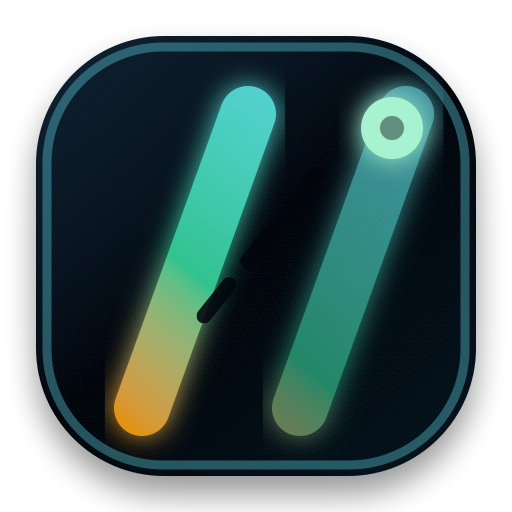
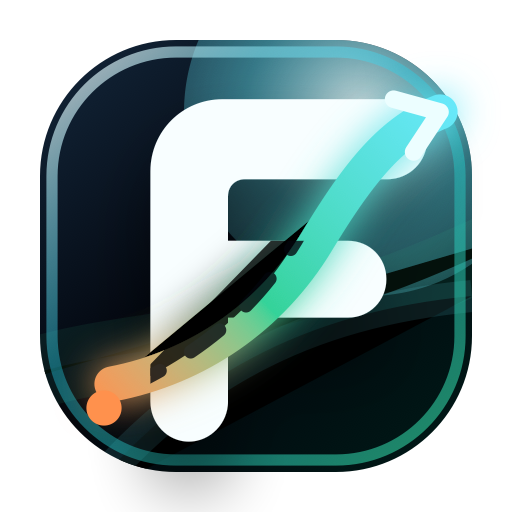
Polish Freeway branding assets

diff --git a/src/components/brand/FreewayLogo.jsx b/src/components/brand/FreewayLogo.jsx
@@ -2,76 +2,113 @@ import React, { useId } from 'react';
 
 export default function FreewayLogo({ className = '', iconClassName = '', showWordmark = false }) {
   const id = useId().replace(/:/g, '');
-  const bgId = `freeway-logo-bg-${id}`;
-  const laneId = `freeway-logo-lane-${id}`;
+  const surfaceId = `freeway-logo-surface-${id}`;
+  const rimId = `freeway-logo-rim-${id}`;
+  const routeId = `freeway-logo-route-${id}`;
+  const sparkId = `freeway-logo-spark-${id}`;
+  const depthId = `freeway-logo-depth-${id}`;
+  const glowId = `freeway-logo-glow-${id}`;
+  const clipId = `freeway-logo-clip-${id}`;
+  const roadMaskId = `freeway-logo-road-mask-${id}`;
 
   return (
     <span className={`inline-flex items-center gap-3 ${className}`}>
       <svg
         viewBox="0 0 64 64"
         aria-hidden="true"
-        className={`h-10 w-10 shrink-0 drop-shadow-[0_0_18px_rgba(45,212,191,0.42)] ${iconClassName}`}
+        className={`h-10 w-10 shrink-0 drop-shadow-[0_0_20px_rgba(34,211,238,0.35)] ${iconClassName}`}
       >
         <defs>
-          <linearGradient id={bgId} x1="9" y1="5" x2="55" y2="60" gradientUnits="userSpaceOnUse">
-            <stop offset="0" stopColor="#0f2130" />
+          <linearGradient id={surfaceId} x1="8" y1="4" x2="58" y2="61" gradientUnits="userSpaceOnUse">
+            <stop offset="0" stopColor="#13263a" />
             <stop offset="0.48" stopColor="#02050c" />
-            <stop offset="1" stopColor="#04141d" />
+            <stop offset="1" stopColor="#001b18" />
           </linearGradient>
-          <linearGradient id={laneId} x1="16" y1="52" x2="50" y2="10" gradientUnits="userSpaceOnUse">
-            <stop offset="0" stopColor="#f59e0b" />
-            <stop offset="0.34" stopColor="#34d399" />
+          <linearGradient id={rimId} x1="10" y1="6" x2="55" y2="58" gradientUnits="userSpaceOnUse">
+            <stop offset="0" stopColor="#f8fafc" stopOpacity="0.7" />
+            <stop offset="0.42" stopColor="#22d3ee" stopOpacity="0.38" />
+            <stop offset="1" stopColor="#34d399" stopOpacity="0.62" />
+          </linearGradient>
+          <linearGradient id={routeId} x1="12" y1="51" x2="54" y2="11" gradientUnits="userSpaceOnUse">
+            <stop offset="0" stopColor="#ff914d" />
+            <stop offset="0.42" stopColor="#34d399" />
             <stop offset="1" stopColor="#67e8f9" />
           </linearGradient>
+          <radialGradient
+            id={sparkId}
+            cx="0"
+            cy="0"
+            r="1"
+            gradientTransform="matrix(23 -26 26 23 45 14)"
+            gradientUnits="userSpaceOnUse"
+          >
+            <stop stopColor="#ecfeff" />
+            <stop offset="0.42" stopColor="#67e8f9" stopOpacity="0.55" />
+            <stop offset="1" stopColor="#67e8f9" stopOpacity="0" />
+          </radialGradient>
+          <filter id={depthId} x="-30%" y="-30%" width="160%" height="160%">
+            <feDropShadow dx="0" dy="6" stdDeviation="5" floodColor="#000000" floodOpacity="0.45" />
+          </filter>
+          <filter id={glowId} x="-45%" y="-45%" width="190%" height="190%">
+            <feGaussianBlur stdDeviation="2.4" result="blur" />
+            <feMerge>
+              <feMergeNode in="blur" />
+              <feMergeNode in="SourceGraphic" />
+            </feMerge>
+          </filter>
+          <clipPath id={clipId}>
+            <rect x="5" y="5" width="54" height="54" rx="17" />
+          </clipPath>
+          <mask id={roadMaskId}>
+            <rect width="64" height="64" fill="black" />
+            <path
+              d="M18.8 50.2V21.4c0-5 4-9 9-9h20.6c2.8 0 5 2.2 5 5s-2.2 5-5 5H30.6c-1.2 0-2.1 0.9-2.1 2.1v5.6h15c2.7 0 4.8 2.1 4.8 4.8s-2.1 4.8-4.8 4.8h-15v10.5c0 2.7-2.2 5-4.9 5s-4.8-2.3-4.8-5Z"
+              fill="white"
+            />
+          </mask>
         </defs>
-        <rect x="5" y="5" width="54" height="54" rx="17" fill={`url(#${bgId})`} />
-        <rect x="6.5" y="6.5" width="51" height="51" rx="15.5" fill="none" stroke="#67e8f9" strokeOpacity="0.32" />
+        <rect x="5" y="5" width="54" height="54" rx="17" fill={`url(#${surfaceId})`} />
+        <g clipPath={`url(#${clipId})`}>
+          <circle cx="46" cy="14" r="23" fill={`url(#${sparkId})`} opacity="0.85" />
+          <path d="M-2 49C16 41 30 47 66 29" stroke="#34d399" strokeWidth="9" strokeOpacity="0.08" />
+          <path d="M10 63C23 47 38 39 59 37" stroke="#67e8f9" strokeWidth="4" strokeOpacity="0.12" />
+        </g>
+        <rect x="6.5" y="6.5" width="51" height="51" rx="15.5" fill="none" stroke={`url(#${rimId})`} strokeWidth="1.4" />
         <path
-          d="M18 50L31 15"
-          stroke={`url(#${laneId})`}
-          strokeWidth="7"
-          strokeLinecap="round"
+          d="M18.8 50.2V21.4c0-5 4-9 9-9h20.6c2.8 0 5 2.2 5 5s-2.2 5-5 5H30.6c-1.2 0-2.1 0.9-2.1 2.1v5.6h15c2.7 0 4.8 2.1 4.8 4.8s-2.1 4.8-4.8 4.8h-15v10.5c0 2.7-2.2 5-4.9 5s-4.8-2.3-4.8-5Z"
+          fill="#f8feff"
+          filter={`url(#${depthId})`}
         />
         <path
-          d="M35 50L48 15"
-          stroke={`url(#${laneId})`}
-          strokeWidth="7"
+          d="M14 48C24.5 46 33.8 39.8 39.6 30.2C44.9 21.4 49 16.4 55 14"
+          stroke={`url(#${routeId})`}
+          strokeWidth="4.4"
           strokeLinecap="round"
-          opacity="0.72"
+          filter={`url(#${glowId})`}
         />
         <path
-          d="M25 39L41 20"
+          d="M16 48.4C27.4 43 35.2 35.6 40.4 23.4"
           stroke="#02050c"
-          strokeWidth="2.4"
+          strokeWidth="1.7"
           strokeLinecap="round"
-          strokeDasharray="6 5"
-          opacity="0.9"
+          strokeDasharray="4.5 4.5"
+          opacity="0.78"
+          mask={`url(#${roadMaskId})`}
         />
         <path
-          d="M19 24H43"
-          stroke="#f8fafc"
-          strokeWidth="6.5"
+          d="M49.2 12.4L55 14L51.7 19"
+          fill="none"
+          stroke="#ecfeff"
+          strokeWidth="2.2"
           strokeLinecap="round"
           strokeLinejoin="round"
         />
-        <path
-          d="M18 24V45"
-          stroke="#f8fafc"
-          strokeWidth="6.5"
-          strokeLinecap="round"
-        />
-        <path
-          d="M20 34H36"
-          stroke="#f8fafc"
-          strokeWidth="5.5"
-          strokeLinecap="round"
-        />
-        <circle cx="48" cy="16" r="4" fill="#a7f3d0" />
+        <circle cx="13" cy="51" r="2.2" fill="#ff914d" />
       </svg>
       {showWordmark && (
         <span className="flex flex-col leading-none">
-          <span className="font-grotesk text-sm font-black tracking-[0.16em] text-white">FREEWAY</span>
-          <span className="mt-1 font-mono text-[9px] uppercase tracking-[0.32em] text-primary/70">Life</span>
+          <span className="font-grotesk text-sm font-black tracking-[0.12em] text-white">FREEWAY</span>
+          <span className="mt-1 font-mono text-[9px] uppercase tracking-[0.28em] text-primary/70">Life</span>
         </span>
       )}
     </span>

diff --git a/index.html b/index.html
@@ -39,14 +39,13 @@
         display: grid;
         place-items: center;
         margin: 0 auto 28px;
-        border: 1px solid rgba(103, 232, 249, 0.28);
-        border-radius: 999px;
-        background: rgba(0, 0, 0, 0.24);
-        box-shadow: 0 0 48px rgba(45, 212, 191, 0.28);
-        color: #5eead4;
-        font-size: 26px;
-        font-weight: 900;
-        letter-spacing: 0.04em;
+        filter: drop-shadow(0 0 30px rgba(34, 211, 238, 0.34));
+      }
+
+      .boot-fallback__mark svg {
+        display: block;
+        width: 100%;
+        height: 100%;
       }
 
       .boot-fallback__title {
@@ -82,7 +81,61 @@
     <div id="root">
       <div class="boot-fallback" aria-label="Freeway Life">
         <div>
-          <div class="boot-fallback__mark">FWL</div>
+          <div class="boot-fallback__mark" aria-hidden="true">
+            <svg viewBox="0 0 64 64" role="img">
+              <defs>
+                <linearGradient id="boot-surface" x1="8" y1="4" x2="58" y2="61" gradientUnits="userSpaceOnUse">
+                  <stop offset="0" stop-color="#13263a" />
+                  <stop offset="0.48" stop-color="#02050c" />
+                  <stop offset="1" stop-color="#001b18" />
+                </linearGradient>
+                <linearGradient id="boot-rim" x1="10" y1="6" x2="55" y2="58" gradientUnits="userSpaceOnUse">
+                  <stop offset="0" stop-color="#f8fafc" stop-opacity="0.7" />
+                  <stop offset="0.42" stop-color="#22d3ee" stop-opacity="0.38" />
+                  <stop offset="1" stop-color="#34d399" stop-opacity="0.62" />
+                </linearGradient>
+                <linearGradient id="boot-route" x1="12" y1="51" x2="54" y2="11" gradientUnits="userSpaceOnUse">
+                  <stop offset="0" stop-color="#ff914d" />
+                  <stop offset="0.42" stop-color="#34d399" />
+                  <stop offset="1" stop-color="#67e8f9" />
+                </linearGradient>
+                <radialGradient id="boot-spark" cx="0" cy="0" r="1" gradientTransform="matrix(23 -26 26 23 45 14)" gradientUnits="userSpaceOnUse">
+                  <stop stop-color="#ecfeff" />
+                  <stop offset="0.42" stop-color="#67e8f9" stop-opacity="0.55" />
+                  <stop offset="1" stop-color="#67e8f9" stop-opacity="0" />
+                </radialGradient>
+                <filter id="boot-depth" x="-30%" y="-30%" width="160%" height="160%">
+                  <feDropShadow dx="0" dy="6" stdDeviation="5" flood-color="#000000" flood-opacity="0.45" />
+                </filter>
+                <filter id="boot-glow" x="-45%" y="-45%" width="190%" height="190%">
+                  <feGaussianBlur stdDeviation="2.4" result="blur" />
+                  <feMerge>
+                    <feMergeNode in="blur" />
+                    <feMergeNode in="SourceGraphic" />
+                  </feMerge>
+                </filter>
+                <clipPath id="boot-clip">
+                  <rect x="5" y="5" width="54" height="54" rx="17" />
+                </clipPath>
+                <mask id="boot-road-mask">
+                  <rect width="64" height="64" fill="black" />
+                  <path d="M18.8 50.2V21.4c0-5 4-9 9-9h20.6c2.8 0 5 2.2 5 5s-2.2 5-5 5H30.6c-1.2 0-2.1 0.9-2.1 2.1v5.6h15c2.7 0 4.8 2.1 4.8 4.8s-2.1 4.8-4.8 4.8h-15v10.5c0 2.7-2.2 5-4.9 5s-4.8-2.3-4.8-5Z" fill="white" />
+                </mask>
+              </defs>
+              <rect x="5" y="5" width="54" height="54" rx="17" fill="url(#boot-surface)" />
+              <g clip-path="url(#boot-clip)">
+                <circle cx="46" cy="14" r="23" fill="url(#boot-spark)" opacity="0.85" />
+                <path d="M-2 49C16 41 30 47 66 29" stroke="#34d399" stroke-width="9" stroke-opacity="0.08" />
+                <path d="M10 63C23 47 38 39 59 37" stroke="#67e8f9" stroke-width="4" stroke-opacity="0.12" />
+              </g>
+              <rect x="6.5" y="6.5" width="51" height="51" rx="15.5" fill="none" stroke="url(#boot-rim)" stroke-width="1.4" />
+              <path d="M18.8 50.2V21.4c0-5 4-9 9-9h20.6c2.8 0 5 2.2 5 5s-2.2 5-5 5H30.6c-1.2 0-2.1 0.9-2.1 2.1v5.6h15c2.7 0 4.8 2.1 4.8 4.8s-2.1 4.8-4.8 4.8h-15v10.5c0 2.7-2.2 5-4.9 5s-4.8-2.3-4.8-5Z" fill="#f8feff" filter="url(#boot-depth)" />
+              <path d="M14 48C24.5 46 33.8 39.8 39.6 30.2C44.9 21.4 49 16.4 55 14" stroke="url(#boot-route)" stroke-width="4.4" stroke-linecap="round" filter="url(#boot-glow)" />
+              <path d="M16 48.4C27.4 43 35.2 35.6 40.4 23.4" stroke="#02050c" stroke-width="1.7" stroke-linecap="round" stroke-dasharray="4.5 4.5" opacity="0.78" mask="url(#boot-road-mask)" />
+              <path d="M49.2 12.4L55 14L51.7 19" fill="none" stroke="#ecfeff" stroke-width="2.2" stroke-linecap="round" stroke-linejoin="round" />
+              <circle cx="13" cy="51" r="2.2" fill="#ff914d" />
+            </svg>
+          </div>
           <h1 class="boot-fallback__title">FREEWAY</h1>
           <p class="boot-fallback__subtitle">LIFE</p>
           <p class="boot-fallback__hint">TOCCA PER ENTRARE</p>

diff --git a/public/sw.js b/public/sw.js
@@ -1,4 +1,4 @@
-const CACHE_NAME = 'freeway-life-v8';
+const CACHE_NAME = 'freeway-life-v9';
 const STATIC_ASSETS = [
   '/site.webmanifest',
   '/favicon.svg',
